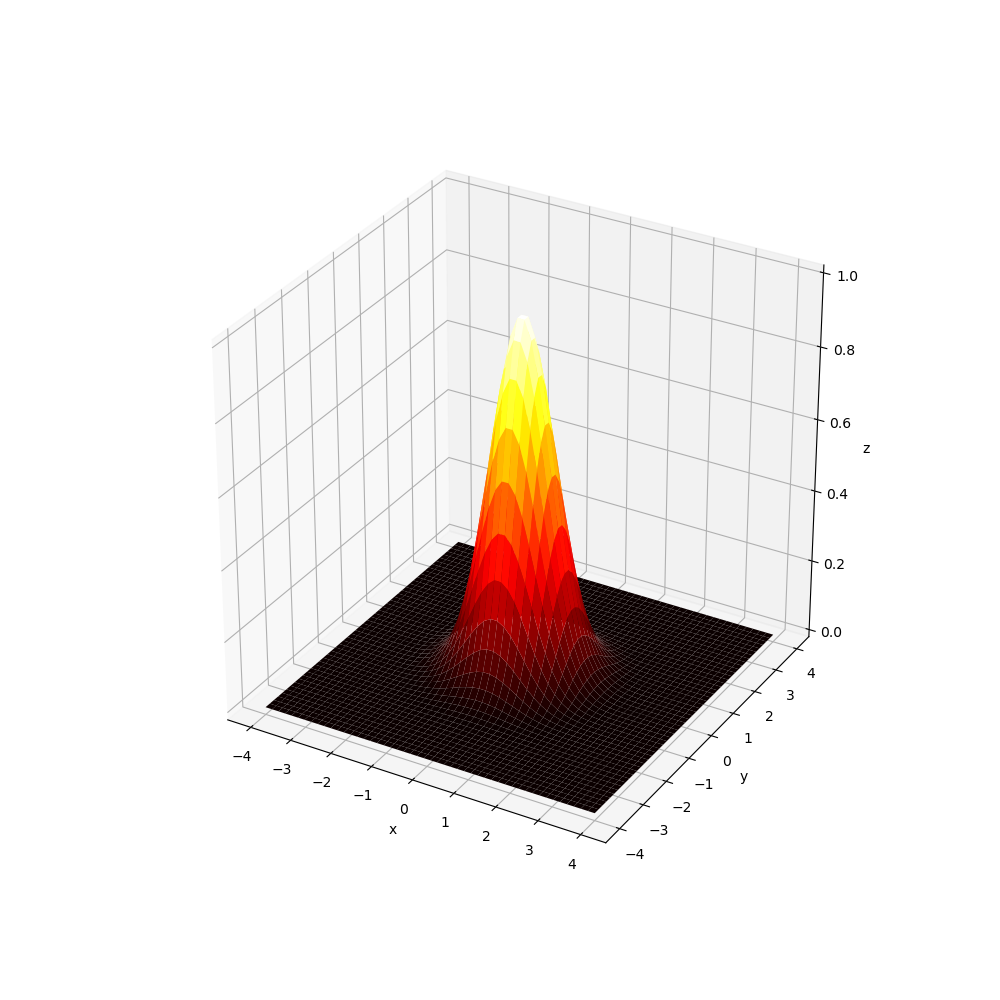
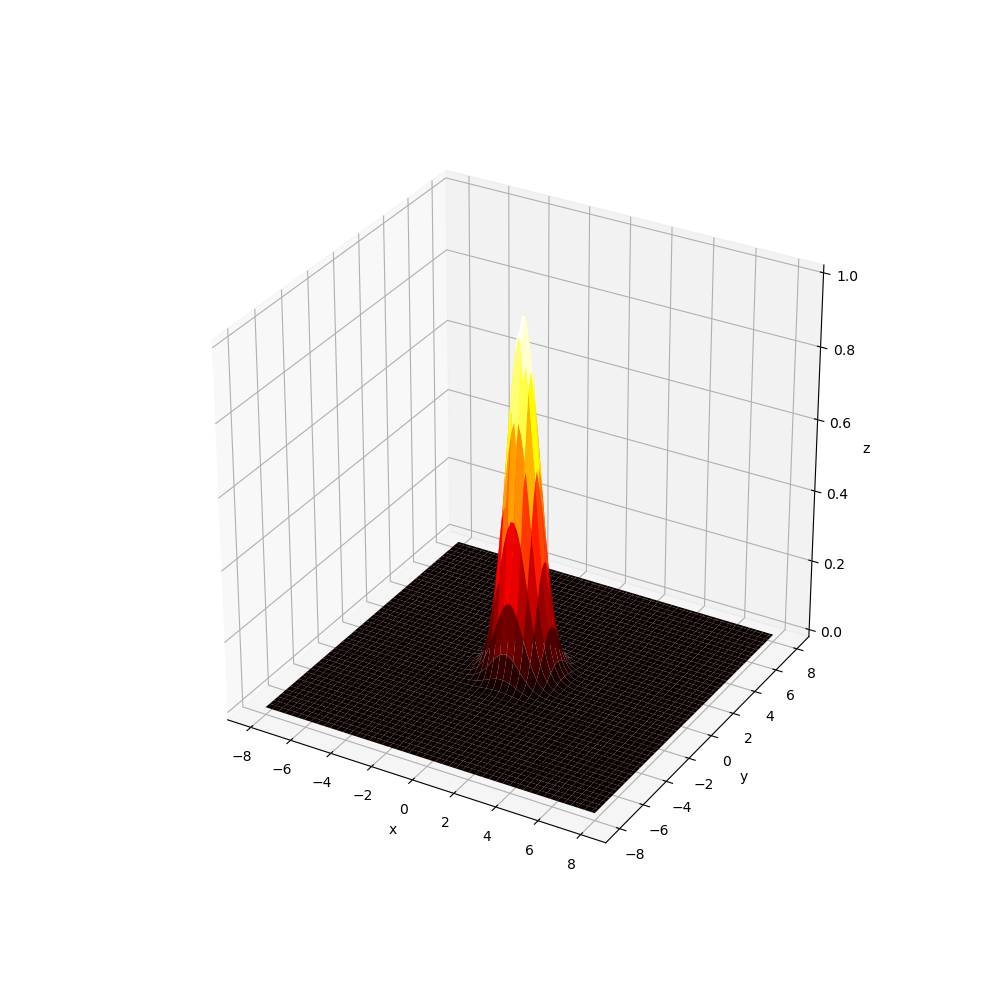
RK4

Changed region(s): [[0.31, 0.341, 0.775, 0.806]]

diff --git a/grid_solver.py b/grid_solver.py
@@ -5,41 +5,72 @@ from utils import np_zero_borders
 
 
 class GridSolver:
-    """
-    This is a finite-difference integrator that takes n-dimensional data as well as a function describing
-    the time derivative and integrates the data numerically, automatically applying default boundary conditions,
-    in order to get a time evolution
-    """
     def __init__(self, data: np.ndarray):
-        """
-        :param data: Initial Dataset
-        """
         self.data = data
-        self.__update_gradients()
 
-    def __update_gradients(self) -> None:
+    def __gradients(self):
+        return GridSolver.gradients(self.data)
+
+    @staticmethod
+    def gradients(data):
         """
         Update the first and second order gradients of the dataset.
         Boundary conditions are that the first order gradient be zero
         :return: None
         """
-        self.gs = np.gradient(self.data)
+        gs = np.gradient(data)
         # boundary conditions and account for 1-d
-        if self.data.ndim == 1:
-            self.gs = np_zero_borders(self.gs)
-            self.ggs = np.gradient(self.gs)
+        if data.ndim == 1:
+            gs = np_zero_borders(gs)
+            ggs = np.gradient(gs)
         else:
-            self.gs = [np_zero_borders(g) for g in self.gs]
-            self.ggs = [np.gradient(g) for g in self.gs]
+            gs = [np_zero_borders(g) for g in gs]
+            ggs = [np.gradient(g) for g in gs]
 
-    def step(self, f: Callable[[np.ndarray, Union[List, np.ndarray], Union[List, np.ndarray], float], np.ndarray], h: Union[float, int]) -> None:
+        return gs, ggs
+
+    def step_euler(self, f: Callable[[Union[float, int], np.ndarray], np.ndarray],
+                   t: Union[float, int], h: Union[float, int]) -> None:
         """
-        Compute one time step on the dataset
-        :param f: The time derivative, taking the dataset, its first and second order gradients
-                    and a time step as arguments, returning the new values for the dataset
+        Compute one time step on the dataset using the forward euler method
+        :param f: The time derivative function, taking the current time and the current dataset as arguments
+        :param t: The current time
         :param h: The time step
         :return: None
         """
-        self.data = f(self.data, self.gs, self.ggs, h)
-        self.__update_gradients()
+        self.data += h * f(t, self.data)
 
+    def solve_euler(self, f: Callable[[Union[float, int], np.ndarray], np.ndarray], n: int, h: Union[float, int], t0=0.0) -> None:
+        """
+        Compute n time steps of length h using the forward euler method
+        See step_euler for details
+        :return: None
+        """
+        for _ in range(n):
+            self.step_euler(f, t0, h)
+            t0 += h
+
+    def step_rk4(self, f: Callable[[Union[float, int], np.ndarray], np.ndarray], t: Union[float, int], h: Union[float, int]) -> None:
+        """
+        Compute one time step of length h on the dataset using Runge-Kutta to 4th order
+        :param f: The time derivative function, taking the current time and the current dataset as arguments
+        :param t: The current time
+        :param h: The time step
+        :return: None
+        """
+        k1 = f(t, self.data)
+        k2 = f(t + h / 2, self.data + h * k1 / 2)
+        k3 = f(t + h / 2, self.data + h * k2 / 2)
+        k4 = f(t + h, self.data + h * k3)
+
+        self.data += h * (k1 + 2 * k2 + 2 * k3 + k4) / 6
+
+    def solve_rk4(self, f: Callable[[Union[float, int], np.ndarray], np.ndarray], n: int, h: Union[float, int], t0=0.0):
+        """
+        Compute n time steps of length h using Runge-Kutta to 4th order
+        See step_rk4 for details
+        :return: None
+        """
+        for _ in range(n):
+            self.step_rk4(f, t0, h)
+            t0 += h

diff --git a/superfluid/main.py b/superfluid/main.py
@@ -13,13 +13,14 @@ def gaussian(x, y, z, x0, y0, z0, sigx, sigy, sigz, amplitude=1.0):
 
 def gross_pitaevskii(m, l):
 
-    def update_func(d, gs, ggs, h):
+    def update_func(_, d):
+        gs, ggs = GridSolver.gradients(d)
         delta_phi = ggs[0][0] + ggs[1][1] + ggs[2][2]
-        return d + h * (1j * delta_phi / (2 * m) - 1j * l * np.abs(d) ** 2 * d / 6)
+        return 1j * delta_phi / (2 * m) - 1j * l * np.abs(d) ** 2 * d / 6
 
-    N = 50
+    N = 100
 
-    x = y = z = np.linspace(-4, 4, N)
+    x = y = z = np.linspace(-8, 8, N)
 
     x, y, z = np.meshgrid(x, y, z)
 
@@ -33,7 +34,7 @@ def gross_pitaevskii(m, l):
     sigy = 1
     sigz = 1
 
-    data = gaussian(x, y, z, x0, y0, z0, sigx, sigy, sigz)
+    data = gaussian(x, y, z, x0, y0, z0, sigx, sigy, sigz).astype(np.complex128)
 
     fig = plt.figure(figsize=(10, 10))
     ax = fig.add_subplot(111, projection="3d")
@@ -49,12 +50,12 @@ def gross_pitaevskii(m, l):
 
     g = GridSolver(deepcopy(data))
 
-    h = 0.01
-    n = 2560
+    h = 1
+    n = 128
 
     @timer(n)
     def steps():
-        g.step(update_func, h)
+        g.step_rk4(update_func, 0, h)
 
     steps()
 
